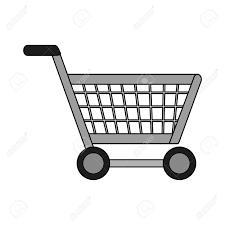
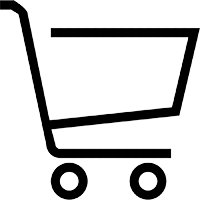
Modificación de la Tienda

diff --git a/P2/Tienda/mi_tienda/static/css/style.css b/P2/Tienda/mi_tienda/static/css/style.css
@@ -38,25 +38,29 @@ label{
 	width: 100%;
 	max-width: 1920px;
 	margin: auto;
+	background-color: #c9e3eb;
 }
 
 
 .logo{
 	padding-top: 40px;
-	padding-bottom: 20px;
-	background-color: #c9e3eb;
+	padding-bottom: 30px;
+	padding-left: 150px;
+	display: inline;
+	float: left;
+
 }
 
-.logo img{
-	margin: auto;
-}
+.carrito{
+	width: 40px;
+	height: auto;
+	display: inline;
+	float: right;
+	padding-top: 40px;
+	padding-bottom: 30px;
+	margin-right: 100px;
 
-.seccion{
-	width: 100%;
-	height: 300px;
-	background-color: #ececec;
 }
-
 
 
 
@@ -100,30 +104,13 @@ label{
 
 
 
-/********* FOOTER *********/
-
-footer{
-	text-align: center;
-	font-family: 'Raleway', sans-serif;
-	padding-top: 30px;
-	padding-bottom: 30px;
-	background-color: #c9e3eb;
-
-}
-
-/********* PG WEB *********/
-.pagina-web{
-	color: #6b97a4;
-}
-
-
 
 
 /********* PRODUCTOS Y CARRITO*********/
 .body_producto {
   background-color: lightblue;
   font-family: 'Raleway', sans-serif;
-  padding: 20px;
+  padding: 150px 150px 95px 150px;
 	font-weight: bold;
 
 }
@@ -131,9 +118,9 @@ footer{
 .body_carrito {
   background-color: lightblue;
   font-family: 'Raleway', sans-serif;
-  padding: 20px;
+  padding: 200px;
 	width: 1400px;
-  height: 550px;
+  height: 1000px;
 	font-weight: bold;
 }
 
@@ -144,6 +131,8 @@ footer{
 	justify-content: space-between;
 	align-items: flex-start;
 }
+
+
 
 .button_pp{
   background-color: #6b97a4;
@@ -162,4 +151,27 @@ footer{
   background-color: #305661;
   color: white;
   box-shadow: 0 10px 10px 0 rgba(0,0,0,0.2);
+}
+
+/********* FOOTER *********/
+
+footer{
+	text-align: center;
+	font-family: 'Raleway', sans-serif;
+	padding-top: 30px;
+	padding-bottom: 30px;
+	background-color: #c9e3eb;
+
+}
+
+/********* PG WEB *********/
+.pagina-web{
+	color: #6b97a4;
+}
+
+.github{
+	width: 35px;
+	height: auto;
+	margin: 0 auto;
+
 }

diff --git a/P2/Tienda/mi_tienda/templates/base.html b/P2/Tienda/mi_tienda/templates/base.html
@@ -12,8 +12,10 @@
 
       	<div class="logo">
           <a href="/mi_tienda"><img src="{%static 'logo.png'%}"/></a>
-          <a href="carrito"><img src="{%static 'carrito.jpg'%}" float="right" background-color=" #c9e3eb" width="80" height="100"/></a>
       	</div>
+        <div class="carrito">
+  	    	<a href="carrito"><img src="{%static 'carrito.png'%}"/></a>
+	      </div>
 
     </div>
 
@@ -23,6 +25,9 @@
     <footer>
           <p>Diseños realizados por Susana Cáceres Nieto</p>
           <p class="pagina-web" >susanacaceresnieto.com</p>
+          <br>
+          <p>Página realizada por María Guadaño Nieto</p>
+          <a href="https://github.com/mariagn95"><img class="github" src="{%static 'github.png'%}"></a>
     </footer>
 
   </body>

diff --git a/P2/Tienda/mi_tienda/templates/carrito.html b/P2/Tienda/mi_tienda/templates/carrito.html
@@ -1,6 +1,7 @@
 {%extends 'base.html'%}
 {%load staticfiles%}
 {%block content%}
+
   <div class="body_carrito">
     <form  action="mostrar_carrito" method="POST">
       {% csrf_token %}
@@ -16,14 +17,15 @@
       </center>
     </form>
     <br>
+
     {{carrito|unordered_list}}
     {%if precio%}
-      <p> Total del pedido : {{precio}} €</p>
+      <p><center> Total del pedido : {{precio}} €</center></p>
     {%endif%}
     <br>
     <br>
     <center>
-      <a class="button_pp" href="/mi_tienda">Página principal</a>
+    <a class="button_pp" href="/mi_tienda">Página principal</a>
     </center>
   </div>
 

diff --git a/P2/Tienda/mi_tienda/templates/index.html b/P2/Tienda/mi_tienda/templates/index.html
@@ -5,17 +5,23 @@
   <div class="cabecera">
     <img src="{%static 'foto-cabecera.jpg'%}"/>
   </div>
+
   <div class="galeria1">
+
     {%for prod in productos%}
+    
       <div class="foto1">
 
         <img src="{%static prod.nombre|lower|add:'.jpg'%}">
+
         <div class="tapa">
           <a href="{{prod.nombre|add:'-prod.html'}}"><h4>{{prod.nombre}}</h4></a>
         </div>
 
       </div>
+
     {%endfor%}
+
   </div>
 
 {%endblock%}

diff --git a/P2/Tienda/mi_tienda/templates/producto.html b/P2/Tienda/mi_tienda/templates/producto.html
@@ -25,7 +25,7 @@
         {%if prod.stock >= 1%}
           <label>Número de productos: <label>
           <input type="number" name="cantidad" value="1" min="1" max="{{prod.stock}}" required/>
-          <input type="submit" value="AÑADIR" />
+          <input type="submit" value="AÑADIR AL CARRITO" />
         {%else%}
           <label> ¡NO HAY EN STOCK! <label>
           <input type="submit" value="AÑADIR" disabled/>
